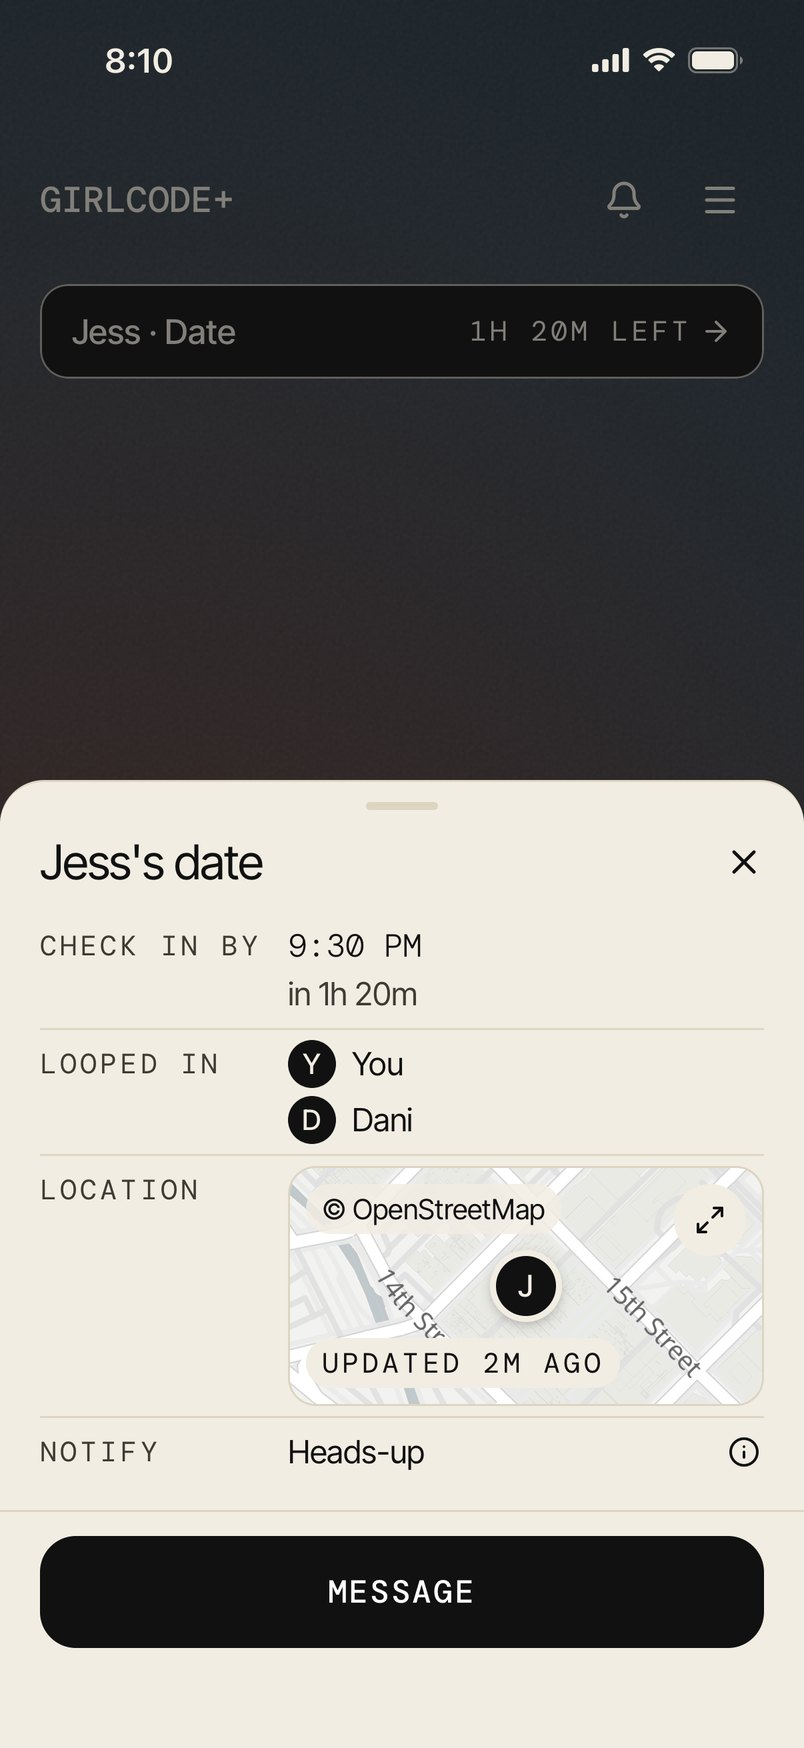
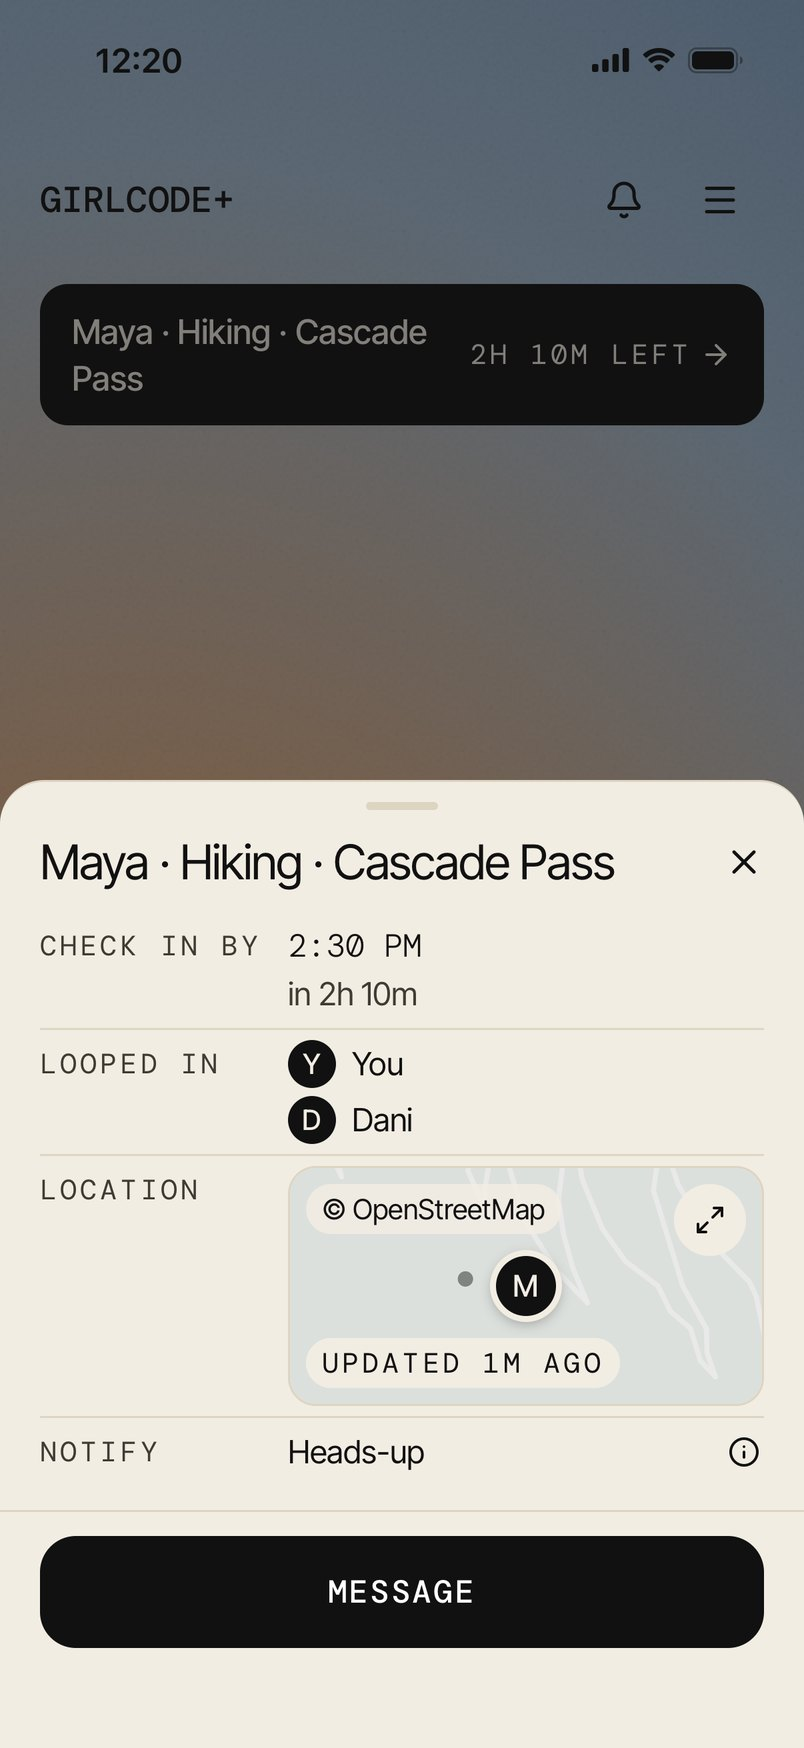
Brand pass: photo-led home, no gradients

diff --git a/index.html b/index.html
@@ -10,7 +10,7 @@
 <link rel="stylesheet" href="styles.css">
 </head>
 <body>
-<header class="hero sky sky-day">
+<header class="hero hero-photo">
   <div class="wrap">
     <div class="bar">
       <a class="wordmark" href="/">GirlCode</a>
@@ -29,30 +29,33 @@
 </header>
 
 <main>
-  <section class="beats wrap" aria-label="How GirlCode works">
-    <div class="beat">
-      <div class="beat-copy reveal">
+  <div class="mat" aria-hidden="true"></div>
+  <section class="scene" aria-label="Your plan, your call" style="--img:url(assets/photo-snow.jpg);--pos:50% 66%">
+    <div class="wrap scene-grid">
+      <div class="beat-copy on-dark reveal">
         <h2 class="shout">Your plan, your call.</h2>
         <p>Share your plan with your people.<br>Check in when you're home.<br>Miss it — they get the plan.</p>
       </div>
-      <div class="device reveal" style="--d:.15s"><div class="screen"><img src="assets/screen-03.jpg" alt="Making a plan: choose how your people hear — Silent, Heads-up, or Only if I miss it"></div></div>
+      <div class="device reveal" style="--d:.15s"><div class="screen"><img src="assets/screen-03.jpg" alt="Making a plan: Snowboarding · Breck, choosing how your people hear — Silent, Heads-up, or Only if I miss it"></div></div>
     </div>
-    <div class="beat">
+  </section>
+  <div class="mat" aria-hidden="true"></div>
+  <section class="scene flip" aria-label="Location only for the plan" style="--img:url(assets/photo-hillside.jpg);--pos:50% 55%">
+    <div class="wrap scene-grid">
       <div class="beat-copy reveal">
         <h2 class="shout">Location —<br>only for the plan.</h2>
         <p>Shared from heading out to check-in, then it stops.<br>No always-on tracking.<br>Privacy first.</p>
       </div>
-      <div class="device reveal" style="--d:.15s"><div class="screen"><img src="assets/screen-04.jpg" alt="Jess's date: check in by 9:30 PM, 1 hour 20 minutes left, her location while the plan is on"></div></div>
+      <div class="device reveal" style="--d:.15s"><div class="screen"><img src="assets/screen-04.jpg" alt="Maya · Hiking · Cascade Pass: check in by 2:30 PM, her location while the plan is on"></div></div>
     </div>
   </section>
-
-  <section class="out sky sky-late" aria-label="Fake call">
+  <section class="out ink-band" aria-label="Fake call">
     <div class="wrap grid">
       <div class="beat-copy reveal">
         <h2 class="shout">Need an out?</h2>
         <p>Schedule a fake call.<br>Your phone rings.<br>You've got a reason to go.</p>
       </div>
-      <div class="device reveal" style="--d:.15s"><div class="screen"><img src="assets/screen-05.jpg" alt="The fake call ringing: Bestie, mobile, with Decline and Accept"></div></div>
+      <div class="device reveal" style="--d:.15s"><div class="screen"><img src="assets/screen-05.jpg" alt="The fake call ringing: Work, mobile, with Decline and Accept"></div></div>
     </div>
   </section>
 

diff --git a/styles.css b/styles.css
@@ -150,3 +150,34 @@ a{color:inherit}
   .badge:hover{transform:translateY(-2px)}
   .badge:active{transform:scale(.98)}
 }
+
+/* ==== Brand restraint pass (Nov 16): photography and the app's own screens carry the color; everything we draw is ink or bone ==== */
+/* hero: the dusk ridge the app's sky comes from */
+.hero-photo{position:relative;isolation:isolate;color:var(--ink);background:#c9a585 url("assets/photo-ridge.jpg") 50% 70%/cover no-repeat}
+.hero-photo .hero-grid{align-items:start;padding-top:clamp(48px,10vh,112px)}
+.hero-photo .hero-copy{padding-bottom:0}
+.hero-photo .device{--dw:340px;margin-bottom:-120px}
+/* scenes: full-bleed photo; copy in its empty sky, the phone on the other side */
+.scene{background:#888 var(--img) var(--pos)/cover no-repeat;color:var(--ink)}
+.scene-grid{display:grid;grid-template-columns:1fr 1fr;gap:64px;align-items:start;min-height:clamp(680px,60vw,920px);padding-block:clamp(72px,9vw,128px)}
+.scene .device{--dw:300px;align-self:center}
+.scene.flip .beat-copy{order:2;justify-self:end}
+.scene .beat-copy p{color:color-mix(in srgb,var(--ink) 72%,transparent)}
+.scene .on-dark{color:var(--bone)}
+.scene .on-dark p{color:color-mix(in srgb,var(--bone) 80%,transparent)}
+.scene .shout{font-size:clamp(20px,2.1vw,26px);letter-spacing:.06em;line-height:1.3}
+/* breath: a quiet bone band between photographs */
+.breath{background:var(--bone);padding-block:clamp(170px,16vw,230px) clamp(96px,10vw,150px)}
+.breath .shout{font-size:clamp(18px,1.8vw,22px);letter-spacing:.12em;text-align:center}
+.mat{height:clamp(20px,2.2vw,32px);background:var(--bone)}
+/* fake call: ink, no gradient */
+.ink-band{background:var(--ink);color:var(--bone)}
+@media (max-width:820px){
+  .hero-photo{background-position:50% 75%}
+  .hero-photo .device{--dw:280px;margin-bottom:-150px}
+  .scene-grid{grid-template-columns:1fr;gap:56px;min-height:0;padding-block:64px 72px}
+  .scene.flip .beat-copy{order:0;justify-self:start}
+  .scene .device{--dw:260px}
+}
+.doc-head{background:var(--ink);color:var(--bone)}
+.doc-head a{color:var(--bone)}

diff --git a/privacy.html b/privacy.html
@@ -10,7 +10,7 @@
 <link rel="stylesheet" href="styles.css">
 </head>
 <body>
-<header class="doc-head sky sky-day"><div class="wrap bar">
+<header class="doc-head"><div class="wrap bar">
   <a class="wordmark" href="/">GirlCode</a>
   <span class="label title">Privacy</span>
   <a class="label" href="/">Home</a>
@@ -120,7 +120,7 @@
 <h2>Security</h2>
 <p>All data travels over encrypted connections. Access is restricted so only you and the people you choose can see your plans. No system is perfectly secure, but we work hard to protect your data and fix problems fast.</p>
 <h2>Age</h2>
-<p>GirlCode is for people 18 and older. If we learn someone under 18 has an account, we'll delete it.</p>
+<p>GirlCode is for people 18 and older.</p>
 <h2>Where Your Data Lives</h2>
 <p>GirlCode is available in the United States, and your data is stored in the United States.</p>
 <h2>Your Rights</h2>

diff --git a/delete-account.html b/delete-account.html
@@ -10,7 +10,7 @@
 <link rel="stylesheet" href="styles.css">
 </head>
 <body>
-<header class="doc-head sky sky-day"><div class="wrap bar">
+<header class="doc-head"><div class="wrap bar">
   <a class="wordmark" href="/">GirlCode</a>
   <span class="label title">Delete account</span>
   <a class="label" href="/">Home</a>

diff --git a/support.html b/support.html
@@ -10,7 +10,7 @@
 <link rel="stylesheet" href="styles.css">
 </head>
 <body>
-<header class="doc-head sky sky-day"><div class="wrap bar">
+<header class="doc-head"><div class="wrap bar">
   <a class="wordmark" href="/">GirlCode</a>
   <span class="label title">Support</span>
   <a class="label" href="/">Home</a>

diff --git a/terms.html b/terms.html
@@ -10,7 +10,7 @@
 <link rel="stylesheet" href="styles.css">
 </head>
 <body>
-<header class="doc-head sky sky-day"><div class="wrap bar">
+<header class="doc-head"><div class="wrap bar">
   <a class="wordmark" href="/">GirlCode</a>
   <span class="label title">Terms</span>
   <a class="label" href="/">Home</a>
